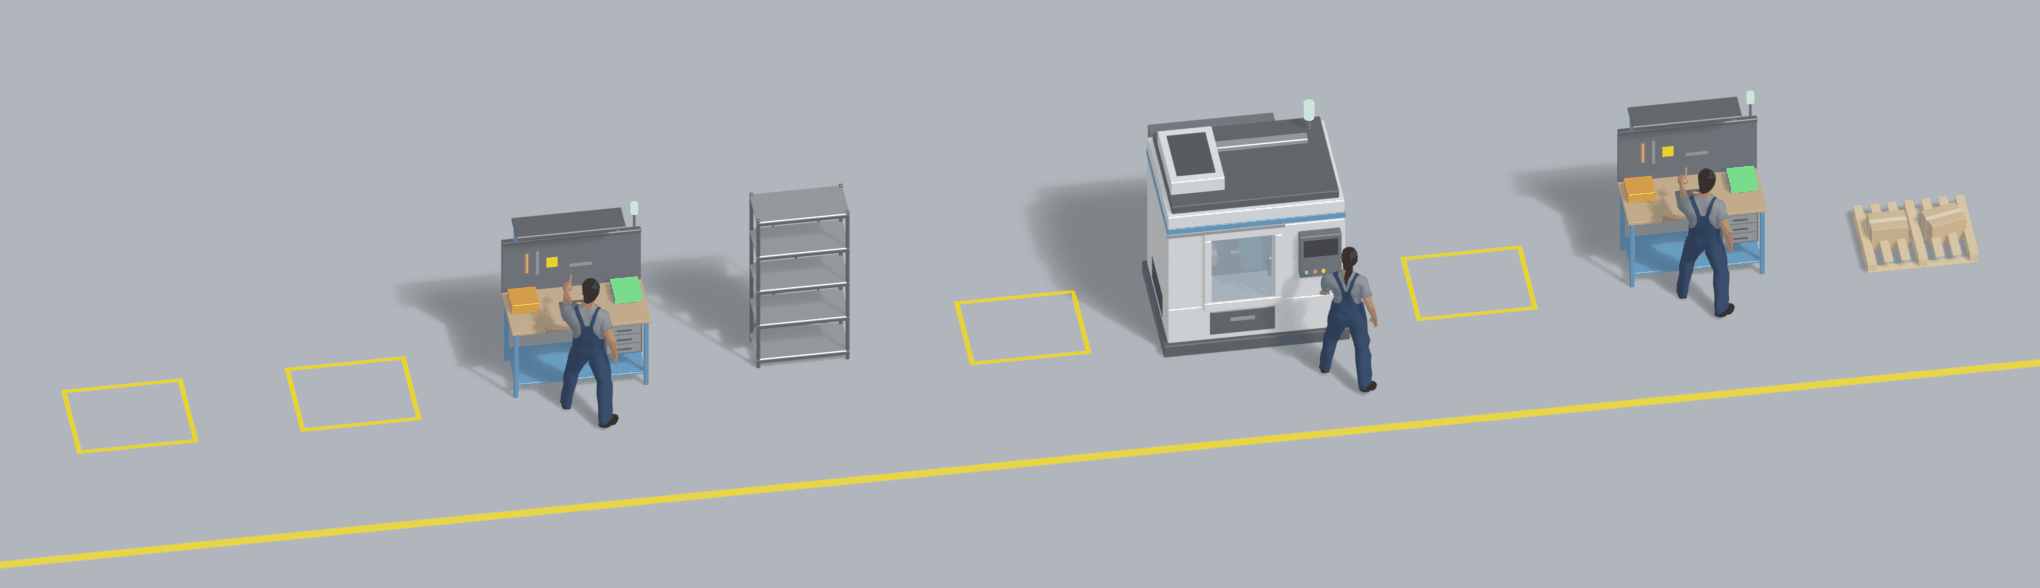
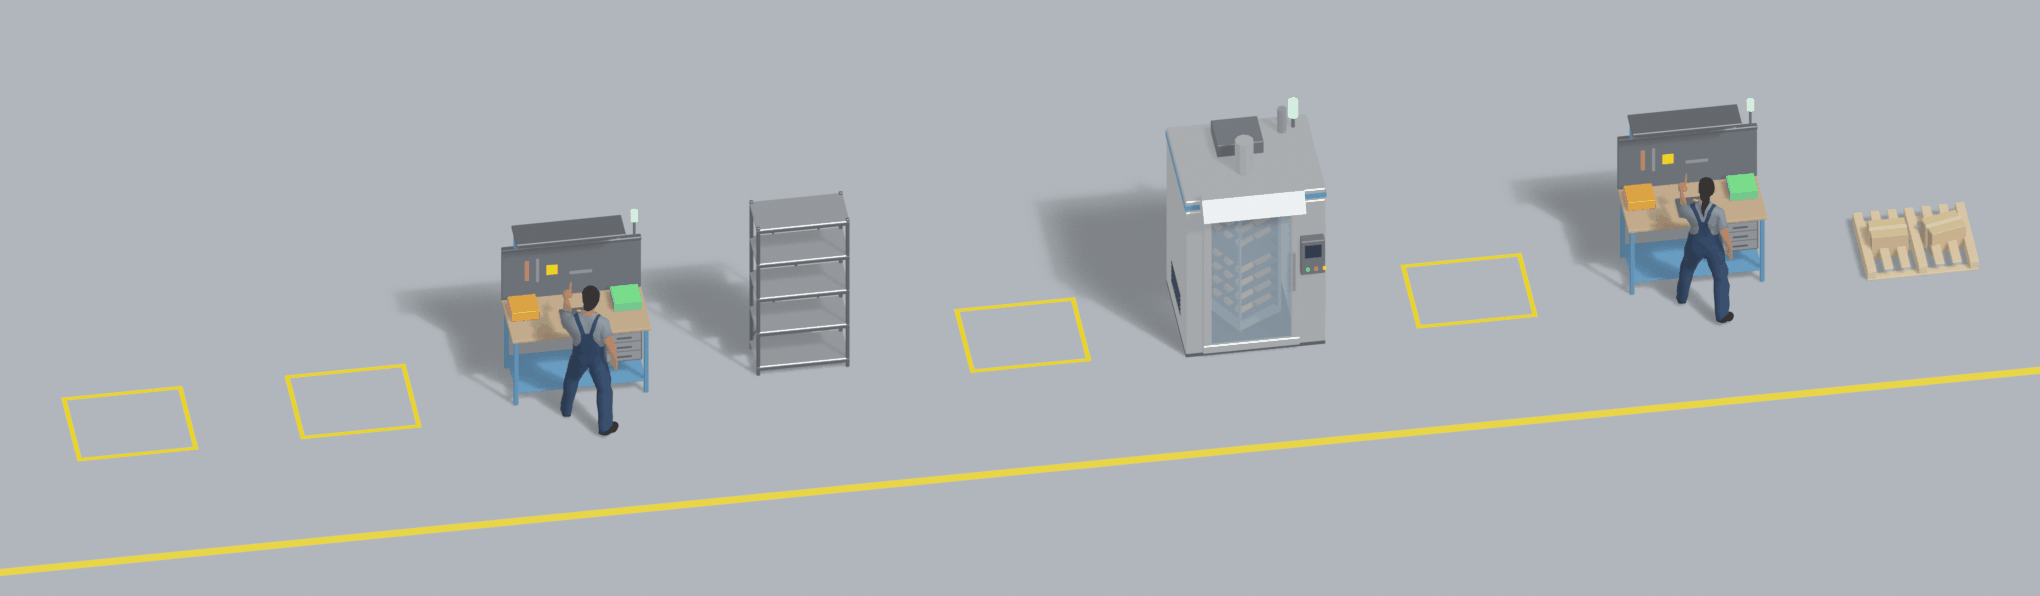
Ensino: forno de padaria na padaria (ato 7)

diff --git a/crates/utsim-ensino-core/tests/cena.rs b/crates/utsim-ensino-core/tests/cena.rs
@@ -341,7 +341,7 @@ fn modelagem_desenha_o_gabarito_sem_copias() {
     // The chamber (capacity 10) and the oven (capacity 2) are one element each.
     assert!(p.objetos.iter().all(|o| !o.nome.contains('#')));
     let forno = p.objetos.iter().find(|o| o.nome == "forno").unwrap();
-    assert_eq!(forno.elemento, "cnc");
+    assert_eq!(forno.elemento, "forno");
 }
 
 #[test]

diff --git a/CHANGELOG.md b/CHANGELOG.md
@@ -7,6 +7,7 @@ O formato segue o [Keep a Changelog](https://keepachangelog.com/pt-BR/1.1.0/) e 
 ## [Não lançado]
 
 ### Mudado
+- UTSim Ensino: a padaria (ato 7) usa o forno de padaria modelado no Blender, na figura do enunciado e no gabarito (`visual: (asset: "forno")`), no lugar do centro de usinagem.
 - UTSim Ensino: o quadro "O que aconteceu" usa o nome que o aluno lê, não o id do modelo ("Máquina 1", "Fila divisora", "Câmara", em vez de `maq1`, `fila_divisora`, `camara`). A missão 6.2 usa um modelo próprio, só com as 3 máquinas do enunciado, e a vista 2D não mostra mais duas máquinas "fora do turno".
 - Tradução, rodada 9 (editor, parte 2): o painel de propriedades do editor do simulador (campos de cada tipo de objeto, distribuições, rótulos, lote, regra de saída, quebras, turnos e calendários, chegadas por período, rede de caminhos e fluidos, aparência) nas cinco línguas. O nome do tipo na tela segue a língua; os roteiros continuam achando os tipos pelo nome em português. Os textos com valores ficaram cerca de 10% mais rápidos de montar (os nomes dos valores não são mais copiados).
 - UTSim Ensino, rodada de jogo (missão 6.2 do começo ao fim): as opções de uma alavanca, de uma previsão ou de uma justificativa com rótulos longos ficam uma embaixo da outra (antes, a última se espremia numa coluna de uma letra por linha); o cabeçalho mostra "Missão 6.2", não "6,2"; a imagem da 6.2 tem os 3 tornos do enunciado, e a operadora Ana e o estoque aparecem na frente das máquinas nas missões 6.1 e 6.2 (campo `mover` da cena, só no desenho).
